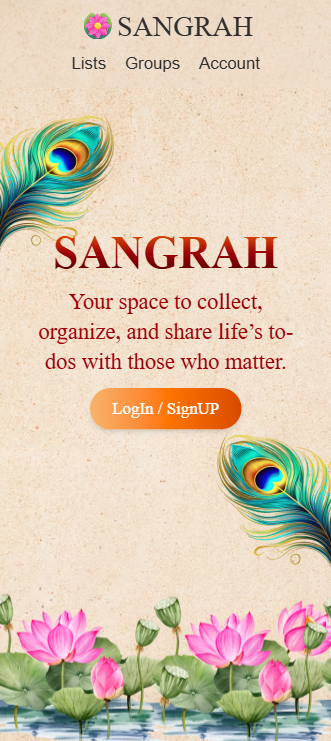
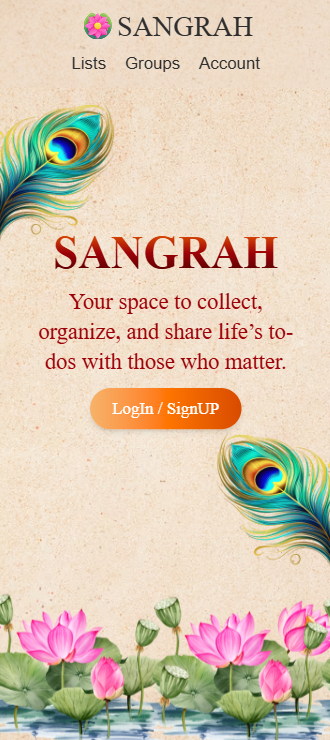
added tab responsiveness and README.md

diff --git a/frontend/src/components/home/Hero.jsx b/frontend/src/components/home/Hero.jsx
@@ -80,17 +80,17 @@ export default function Hero() {
         
         {/* LEAVES -------------------------------------------------*/}
 
-        <img className='left-leaf absolute w-45 -left-10 top-5 sm:top-0 sm:w-60 lg:w-auto' src="left-leaf.png" alt="left-leaf" />
-        <img className='right-leaf absolute w-45 -right-10 bottom-65 sm:top-5 sm:w-60 lg:w-auto' src="right-leaf.png" alt="right-leaf" />
+        <img className='left-leaf absolute w-45 -left-10 top-2 md:top-10 lg:top-0 md:w-80 xl:w-auto' src="left-leaf.png" alt="left-leaf" />
+        <img className='right-leaf absolute w-45 -right-10 bottom-65 sm:top-40 lg:top-5 md:w-80 lg:w-auto' src="right-leaf.png" alt="right-leaf" />
         
        {/* SANGRAH TITLE AND LOGIN BUTTON-------------------------- */}
 
-        <div className="absolute top-40 sm:top-20 left-1/2 -translate-x-1/2 -translate-y-1/2; flex flex-col items-center gap-3 sm:gap-5">   
+        <div className="absolute top-40 sm:top-25 md:top-40 lg:top-20 left-1/2 -translate-x-1/2 -translate-y-1/2; flex flex-col items-center gap-3 sm:gap-5">   
 
             {/* SANGRAH-HERO-TITLE          */}
             <h1 className="title font-cinzel text-center w-70 md:w-auto text-5xl md:text-6xl xl:text-8xl font-semibold">SANGRAH</h1>
 
-            {/* GITA-QUOTE */}
+            {/* SUB-TITLE */}
             <p className="font-cinzel text-2xl text-[#9D0208] text-center opacity-0 animate-[fadeInUp_0.6s_ease-out_2s_forwards]">
             Your space to collect, organize, and share life’s to-dos with those who matter.
             </p>
@@ -104,7 +104,7 @@ export default function Hero() {
         
         {/* lotus ----------------------------------------------------*/}
 
-        <img className='lotus z-2 w-380 absolute bottom-20 lg:top-70' src="lotus3.webp" alt="Lotus"/>
+        <img className='lotus z-2 w-380 absolute bottom-20 md:top-90 lg:top-70' src="lotus3.webp" alt="Lotus"/>
 
     </section>
   )

diff --git a/README.md b/README.md
@@ -3,7 +3,7 @@
 Sangrah is a spiritual and collaborative productivity app that lets you organize your personal tasks and collaborate on shared goals with friends or teams. Rooted in calm aesthetics like **morpankhs** and **lotus flowers**, Sangrah brings focus and serenity to your productivity.
 
 📱 **Fully Responsive** — Mobile, Tablet, Desktop friendly  
-![Hero Page](frontend/public/Hero.png) ![Hero Page](frontend/public/mobile.png)
+![Hero Page](frontend/public/Hero.png) ![Hero Page](frontend/public/tab.png) ![Hero Page](frontend/public/mobile.png) 
 🔒 **Secure & Smooth** — JWT auth, persistent login  
 🪶 **Spiritual Touch** — Gita quotes on every to-do list page
 
